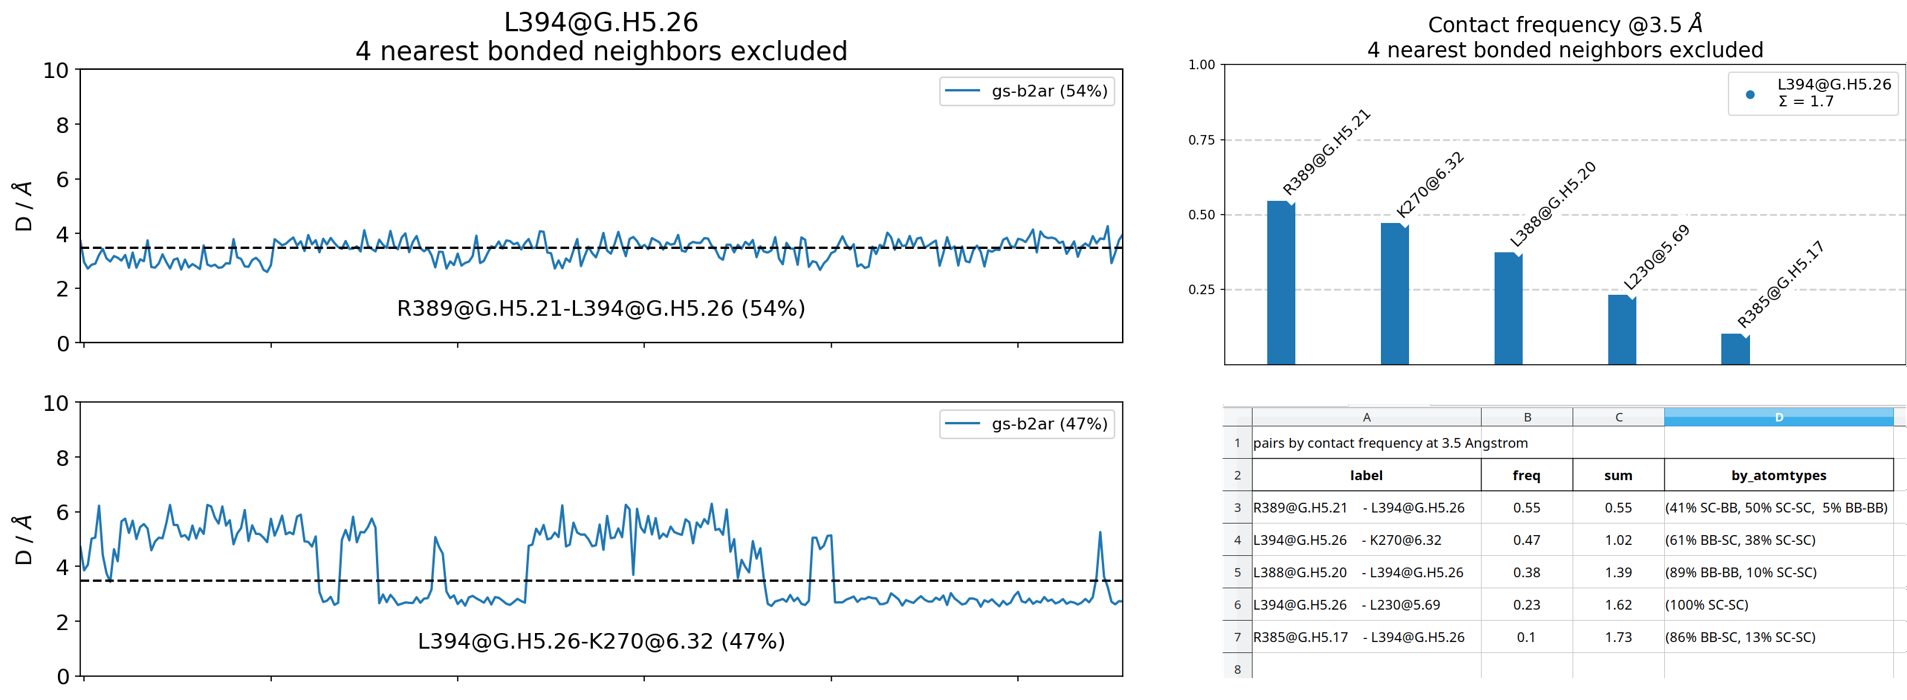
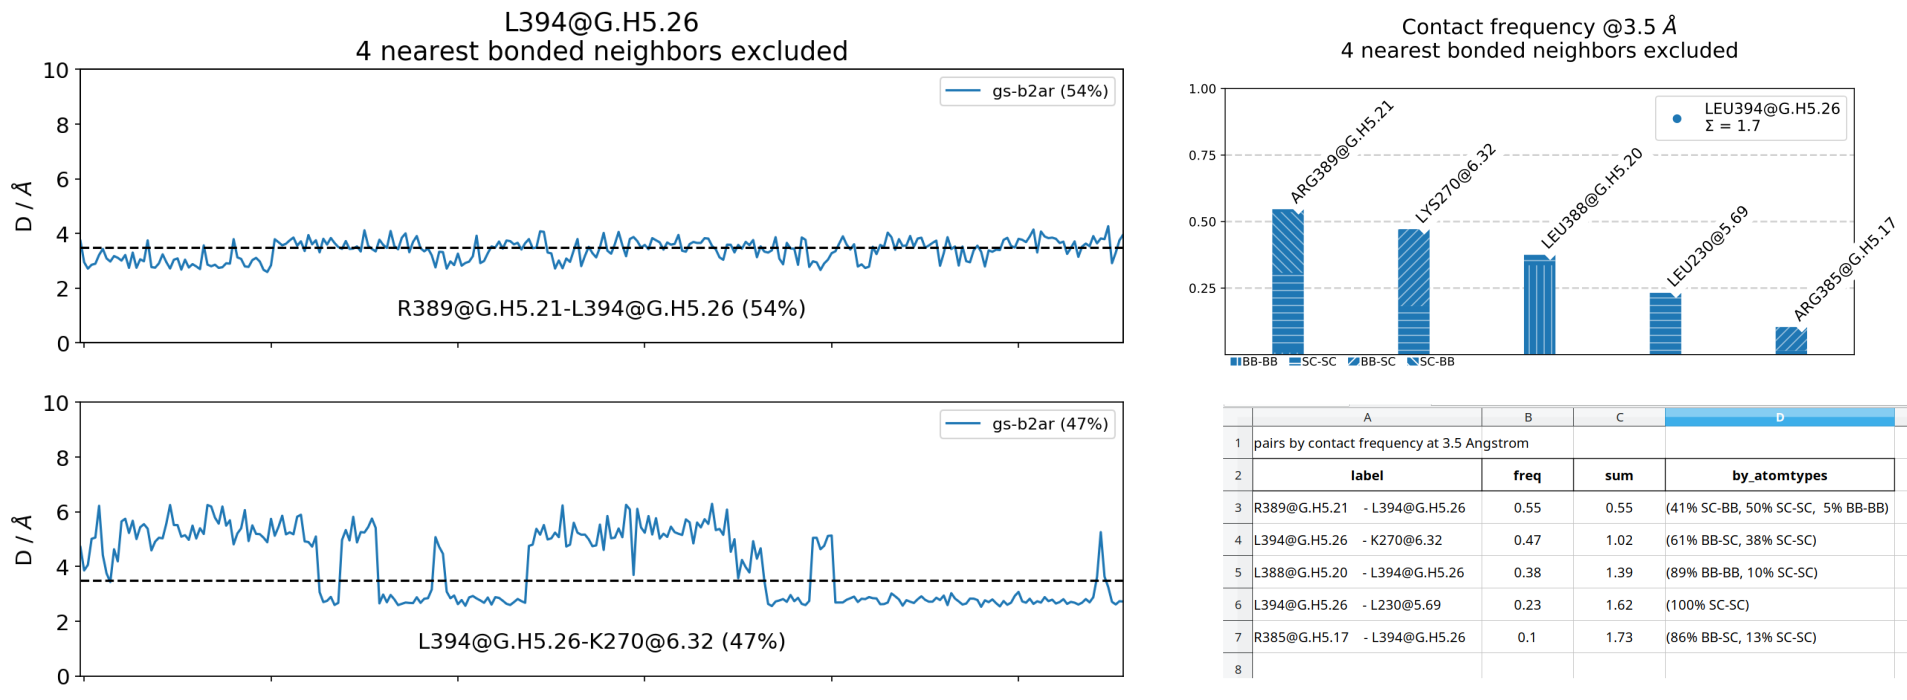
[contacts.ContactGroup.frequency_dataframe] sort relative atomtype frequency in descending order

diff --git a/mdciao/contacts/contacts.py b/mdciao/contacts/contacts.py
@@ -2341,7 +2341,7 @@ class ContactGroup(object):
 
         if by_atomtypes:
             idf = self.relative_frequency_formed_atom_pairs_overall_trajs(ctc_cutoff_Ang,switch_off_Ang=switch_off_Ang)
-            idf = ['(%s)' % (', '.join(['%2u%% %s' % (val * 100, key) for key, val in idict.items()])) for idict in idf]
+            idf = ['(%s)' % (', '.join(['%2u%% %s' % (val * 100, key) for key, val in sorted(idict.items(),key=lambda item: item[1],reverse=True)])) for idict in idf]
             df2return = df2return.join(_DF.from_dict({"by_atomtypes": idf}))
 
         return df2return
